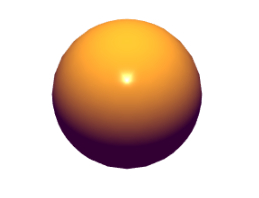
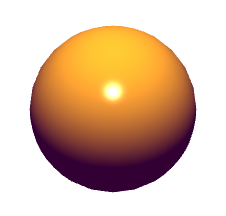
Add files via upload

Changed region(s): [[0.1239, 0.0909, 0.8673, 0.9091], [0.4336, 0.3636, 0.5575, 0.4848], [0.3097, 0.1515, 0.3407, 0.1818]]

diff --git a/Chapter 11/chapter11-5-phongshadingphongreflection.html b/Chapter 11/chapter11-5-phongshadingphongreflection.html
@@ -1,7 +1,7 @@
 <!DOCTYPE html>
 <html>
 <head>
-    <title> Phong Shading + Lambertian Reflection Model</title>
+    <title> Phong Shading + Phong Reflection Model</title>
     <style>
         #overlay {
             background-color: rgba(0, 0, 0, 0.7);
@@ -438,15 +438,15 @@
         vec3 pos = (modelViewMatrix * vPositionAttr).xyz;
 
         //Transformed normal position
-        N = normalize(vec3(normalMatrix * vNormalAttr));
+        N = vec3(normalMatrix * vNormalAttr);
 
         vec3 eyeVec = -vec3(pos);
-        E = normalize(eyeVec);
+        E = eyeVec;
 
         // check for directional light
 
-        if(lightPosition.w == 0.0) L = normalize(lightPosition.xyz);
-        else L = normalize( lightPosition.xyz - pos );
+        if(lightPosition.w == 0.0) L = lightPosition.xyz;
+        else L =  lightPosition.xyz - pos ;
 
         gl_Position = projectionMatrix * modelViewMatrix * vPositionAttr;
 
@@ -468,12 +468,18 @@
         in vec3 L;
         in vec3 N;
         in vec3 E;
+        vec3 nL, nN, nE;
 
         void main(void) {
-        //Lambert's cosine law
-        float lambertTerm = dot(N,-L);
 
-        float Kd = max (dot (N, -L) , 0.0);
+        nE = normalize(E);
+        nN = normalize(N);
+        nL = normalize(L);
+
+        //Lambert's cosine law
+        float lambertTerm = dot(nN,-nL);
+
+        float Kd = max (dot (nN, -nL) , 0.0);
         //Ambient Term
         vec4 Ia = lightAmbient * materialAmbient;
 
@@ -487,8 +493,8 @@
         {
         Id = lightDiffuse* materialDiffuse * lambertTerm; //add diffuse term
 
-        vec3 R = reflect(L, N);
-        float specular = pow(max(dot(R, E), 0.0), shininess );
+        vec3 R = reflect(nL, nN);
+        float specular = pow(max(dot(R, nE), 0.0), shininess );
 
         Is = lightSpecular * materialSpecular * specular; //add specular term
         }
